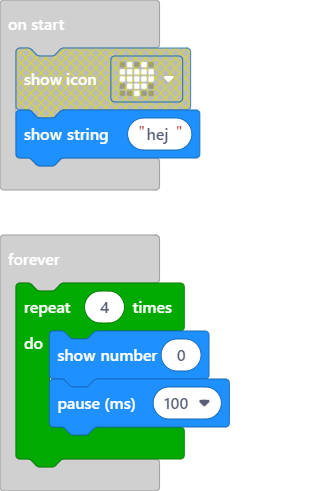
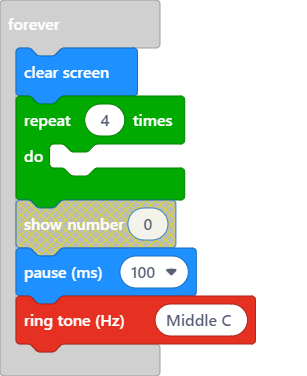
Update main.blocks, main.ts

diff --git a/main.ts b/main.ts
@@ -1,7 +1,8 @@
 basic.showString("hej")
 basic.forever(function () {
+    basic.clearScreen()
     for (let index = 0; index < 4; index++) {
-        basic.showNumber(0)
         basic.pause(100)
+        music.ringTone(262)
     }
 })
